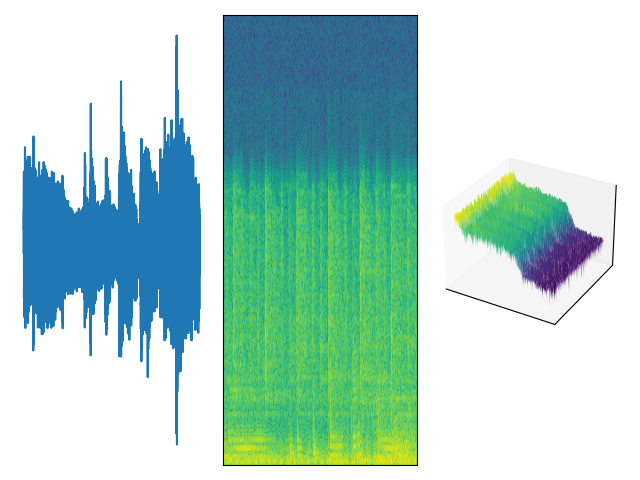
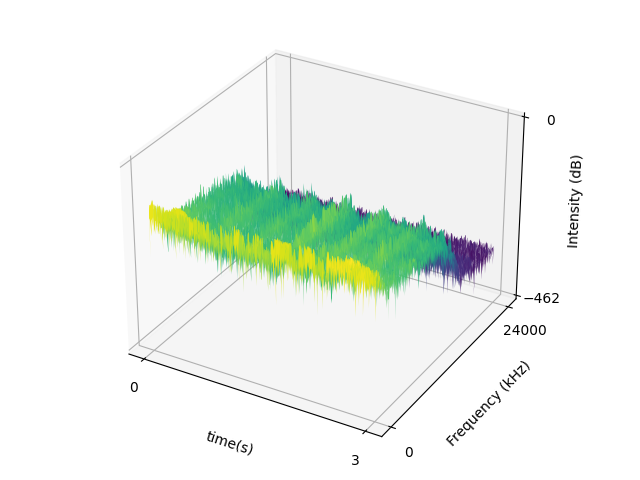
rough changes

diff --git a/audioutils/audioplot.py b/audioutils/audioplot.py
@@ -6,41 +6,38 @@ from matplotlib import cm
 
 ## FUNCTIONS
 
-def plot_range(dist: list[int or float] = (0, 1), bins: int = 0, decimal: int = 0) -> list[int or float]:
+def plot_range(dist: list[int or float] = (0, 1), bins: int = 0, divisor: int = 1, decimal: int = 2):
     """
-    Given a range to mark on an axis, returns a list of evenly-spaced values for the axis.
+    Given a range to mark on an axis, returns a list of evenly-spaced values for the axis, with approximated labels.
+    """
 
-    Args:
-        dist (list, optional): range of values to span in axis. Defaults to [0, 1].
-        bins (int, optional): number of markers to divide the axis evenly by. If bins=0, an empty range is given. Defaults to 3.
-        decimal (int, optional): number of decimal places to round values to. Defaults to 2.
-
-    Returns:
-        list[int or float]: list of value markers. if round=0, value type is int.
-    """  
-    if bins <= 0: 
-        return []
-    elif bins == 1: 
-        return [dist[0]]
+    if bins <= 0: # If empty, provide no markers or labels
+        return [], []
+    elif bins == 1:
+        result = [dist[0], dist[1]]
     else:
-        return [round(i, decimal) for i in range(dist[0], dist[1], dist[1] // (bins - 1))] + [dist[1]]
+        result = [i for i in range(dist[0], dist[1], dist[1] // (bins - 1))] + [dist[1]]
+    labels = [f'${round(i / divisor, decimal)}$' for i in result]
+    return result, labels
 
+# Read in .wav files as sample rate (integer), and array of values.
 def wavread(path):
     sr, s = read(path)
     return sr, s.astype('float32')/32768
 
+
 # Plot waveform of an audio file
-def wave_plot(plot, sample, xbins=2, ybins=2,
-              xbinlabels=[], ybinlabels=[],
-              xlabel='time (s)', ylabel='Amplitude', title='Waveform',
+def wave_plot(plot, sample, sr=48000, xbins=2, ybins=2,
+              xbinlabels=[], ybinlabels=['$-\\alpha$', '$0.0$', '$\\alpha$'],
+              xlabel='samples', ylabel='Amplitude', title='Waveform',
               grid=False, color='C0'):
     plot.plot(sample, color=color)
 
-    xrange = plot_range([0, len(sample)], xbins)
-    plot.set_xticks(xrange, labels=xbinlabels if xbinlabels else [f'${i}$' for i in range(len(xrange))])
-
-    yrange = plot_range((round(np.min(sample)), round(np.max(sample))), ybins)
-    plot.set_yticks(yrange, labels=ybinlabels if ybinlabels else [f'${i}$' for i in range(len(yrange))])
+    # Axis markers and labels
+    xrange, xlabels = plot_range([0, len(sample)], bins=xbins, divisor=sr, decimal=2)
+    plot.set_xticks(xrange, labels=xbinlabels if (len(xbinlabels) == len(xrange)) else xlabels)
+    yrange, ylabels = plot_range([round(np.min(sample)), round(np.max(sample))], bins=2, decimal=2)
+    plot.set_yticks(yrange, labels=ybinlabels if (len(ybinlabels) == len(yrange)) else ylabels)
 
     # Plot appearance
     plot.tick_params(axis='both', which='major', labelsize=15)
@@ -50,30 +47,63 @@ def wave_plot(plot, sample, xbins=2, ybins=2,
     plot.set_ylabel(ylabel, fontsize=20)
     plot.set_title(title)
 
-# Plot waveform of an audio file
-def spec_plot(plot, sample, sr, interval, nfft=2048):
-    f, t, s = spectrogram(sample, sr, axis=0, nfft=nfft)
-    plot.pcolormesh(t, f, 10.0*np.log10(s), shading="auto")
-    plot.locator_params(axis='x', nbins=interval*2)
-    # plot.set_xlabel('time (s)')
-    freq_range = range(0, sr//2, 1000*interval)
-    plot.set_xticks([])
-    plot.set_yticks([])
-    # plot.set_yticks([i for i in freq_range], [f'{i//1000}' for i in freq_range])
-    # plot.set_ylabel('Frequency (kHz)')
-    # plot.set_title('Spectrogram')
 
-def spec3d_plot(plot, sample, sr, interval, nfft=2048):
+# STFT Function
+DFT_SIZE = 2048
+HOP_SIZE = 256
+WINDOW = np.hanning(DFT_SIZE)
+from scipy import fft
+def stft( input_sound, dft_size=DFT_SIZE, hop_size=HOP_SIZE, zero_pad=0, window=WINDOW):
+    frames = []
+    # zero-padding for equally sized frames
+    input_sound = np.append(input_sound, np.zeros(len(input_sound) % dft_size))
+
+    for i in range(0, len(input_sound) - dft_size, hop_size):
+        frame = input_sound[i : i + dft_size] * window
+        frames.append(frame)
+
+    spectrogram = np.array([(fft.rfft(f, dft_size + zero_pad)) for f in frames], dtype=np.complex64)
+    # Return a complex-valued spectrogram (frequencies x time)
+    return spectrogram.T 
+
+
+# Plot waveform of an audio file
+def spec_plot(plot, sample, sr, nfft=2048, xbins=2, ybins=2,
+              xbinlabels=[], ybinlabels=[],
+              xlabel='time (s)', ylabel='Frequency (kHz)', title='Spectrogram', cmap=cm.viridis):
+    
+    sample_stft = stft(sample, dft_size=nfft, hop_size=nfft//16)
+
+    plot.pcolormesh(10.0*np.log(np.absolute(sample_stft)), shading="auto", cmap=cmap)
+
+    plot.set_xticks(np.linspace(0, sample_stft.shape[1], xbins))
+    plot.set_xticklabels(xbinlabels if xbinlabels else [np.round(i * len(sample) / (xbins - 1) / sr, 2) for i in range(xbins)])
+    plot.set_yticks(np.linspace(0, sample_stft.shape[0], ybins))
+    plot.set_yticklabels(ybinlabels if ybinlabels else np.linspace(0, sr/2000, ybins))
+   
+   # Plot appearance
+    plot.tick_params(axis='both', which='major', labelsize=15)
+    if xbins == 0:
+        plot.set_frame_on(False)
+    plot.set_xlabel(xlabel, fontsize=20)
+    plot.set_ylabel(ylabel, fontsize=20)
+    plot.set_title(title)
+
+
+def spec3d_plot(plot, sample, sr, nfft=2048, xbins=2, ybins=2, zbins=2):
     f, t, s = spectrogram(sample, sr, axis=0, nfft=nfft)
-    plot.plot_surface(f[:, None], t[None, :], 10.0*np.log(s), cmap=cm.viridis)
-    # plot.set_title('3D Spectrogram')
-    freq_range = range(0, sr//2, 1000*interval)
-    plot.set_xticks([])
-    plot.set_yticks([])
-    plot.set_zticks([])
+    s = 10.0*np.log(s)
+
+    # I don't know why this line works, it just does
+    plot.plot_surface(t[None, :], f[:, None], s, cmap=cm.viridis)
+
+    plot.set_xticks(np.linspace(0, len(sample)//sr, xbins))
+    plot.set_yticks(np.linspace(0, sr/2, ybins))
+    plot.set_zticks(np.linspace(np.min(s), 0, zbins))
     # plot.set_xticks([i for i in freq_range], [f'{i//1000}' for i in freq_range])
-    # plot.set_xlabel('Frequency (kHz)')
-    # plot.set_ylabel('time(s)')
+    plot.set_ylabel('Frequency (kHz)')
+    plot.set_xlabel('time(s)')
+    plot.set_zlabel('Intensity (dB)')
 
 
 # def audioplot(sample, sr):

diff --git a/content/indexcode.py b/content/indexcode.py
@@ -1,6 +1,6 @@
 # Imports
 import sys
-sys.path.insert(1, '/Users/ematth/Documents/website/audioutils')
+sys.path.insert(1, '../audioutils')
 from audioplot import *
 from spectralfactor import *
 import numpy as np
@@ -10,19 +10,43 @@ sr, sample = wavread('dolphin.wav')
 sample = np.sum(sample, axis=1)
 sample = sample[2*sr:5*sr]
 
-fig = plt.figure()
-spec = fig.add_gridspec(1, 3)
+def test1():
+    fig = plt.figure()
+    spec = fig.add_gridspec(1, 3)
 
-ax = fig.add_subplot(spec[0, 0])
-wave_plot(ax, sample, xbins=0, ybins=0, 
-                    xbinlabels=[], ybinlabels=[],
-                    xlabel='', ylabel='', title='', grid=True)
+    ax = fig.add_subplot(spec[0, 0])
+    wave_plot(ax, sample, xbins=0, ybins=0, 
+                        xbinlabels=[], ybinlabels=[],
+                        xlabel='', ylabel='', title='', grid=True)
 
-ax2 = fig.add_subplot(spec[0, 1])
-spec_plot(ax2, sample, sr, 5)
+    ax2 = fig.add_subplot(spec[0, 1])
+    spec_plot(ax2, sample, sr, 5)
 
-ax3 = fig.add_subplot(spec[0, 2], projection='3d')
-spec3d_plot(ax3, sample, sr, 5)
+    ax3 = fig.add_subplot(spec[0, 2], projection='3d')
+    spec3d_plot(ax3, sample, sr, 5)
 
-fig.tight_layout()
-fig.savefig('graph.png')
+    fig.tight_layout()
+    fig.savefig('graph.png')
+
+
+def test2():
+    fig = plt.figure()
+    spec = fig.add_gridspec(1, 1)
+
+    ax = fig.add_subplot(spec[0, 0])
+    spec_plot(ax, sample, sr)
+    fig.tight_layout()
+    fig.savefig("graph.png")
+
+
+def test3():
+    fig = plt.figure()
+    spec = fig.add_gridspec(1, 1)
+
+    ax = fig.add_subplot(spec[0, 0], projection='3d')
+    spec3d_plot(ax, sample, sr)
+    fig.tight_layout()
+    fig.savefig("graph.png")
+
+if __name__ == '__main__':
+    test3()

diff --git a/content/post/audio1/audio1.py b/content/post/audio1/audio1.py
@@ -5,7 +5,7 @@ from audioplot import *
 from spectralfactor import *
 import numpy as np
 import matplotlib.pyplot as plt
-from scipy.io.wavfile import read
+from scipy.io.wavfile import read, write
 
 SINE = lambda x, a=1, b=0 : (a * np.sin(2*np.pi*x)) + b
 
@@ -41,9 +41,10 @@ def fig2():
     fig = plt.figure(); 
 
     sr, sample = wavread('staywithme.wav'); sample = np.sum(sample, axis=1)
+    sample=sample[:5*sr]
 
     ax = fig.add_subplot(1,2,1)
-    wave_plot(ax, sample[20000::20005], xbins=0, ybins=0, 
+    wave_plot(ax, sample, xbins=0, ybins=0, 
                     xbinlabels=[], ybinlabels=[],
                     xlabel='', ylabel='', title='', grid=True)
 

diff --git a/content/post/audio1/index.md b/content/post/audio1/index.md
@@ -37,7 +37,7 @@ Words words words words
 
 <img src="plot1.png" alt="plot of a simple sine function">
 
-Although all sounds can be defined as a collection of sine waves, the human ear doesn't *hear* the individual **samples**, or cycles of a oscillating function. Instead, samples are played with high frequency as for the human hear to audibly combine the samples into a cohesive sound. Standards for **sample rate**, or the number of samples played per seconds in **Hertz (Hz)**, can range from 44,100 Hz to nearly 192,000 Hz in professional studios.
+Although all sounds can be defined as a collection of sine waves, the human ear doesn't *hear* the individual **samples**, or cycles of a oscillating function. Instead, samples are played at such a high rate that the human ear can't audibly pinpoint specific samples. Instead, the samples combine the into one cohesive sound. Standards for **sample rate**, or the number of samples played per second in **Hertz (Hz)**, can range from 44,100 Hz to nearly 192,000 Hz in professional studios.
 
 If human hearing only spans the range of 20 Hz - 20,000 Hz, why do we use much higher sample rates? The answer is that, in order to process an audio signal without losing information, we need need to use a sample rate that is at least twice as big as the highest frequency sound in the signal. This is known as the **Nyquist Limit**, and is the reason signals typically use a sample rate in the 40 kHz range. And while human hearing isn't capable of capturing anything beyond this range, music producers often use even higher sample rates as a means of capturing higher-resolution audio.
 
